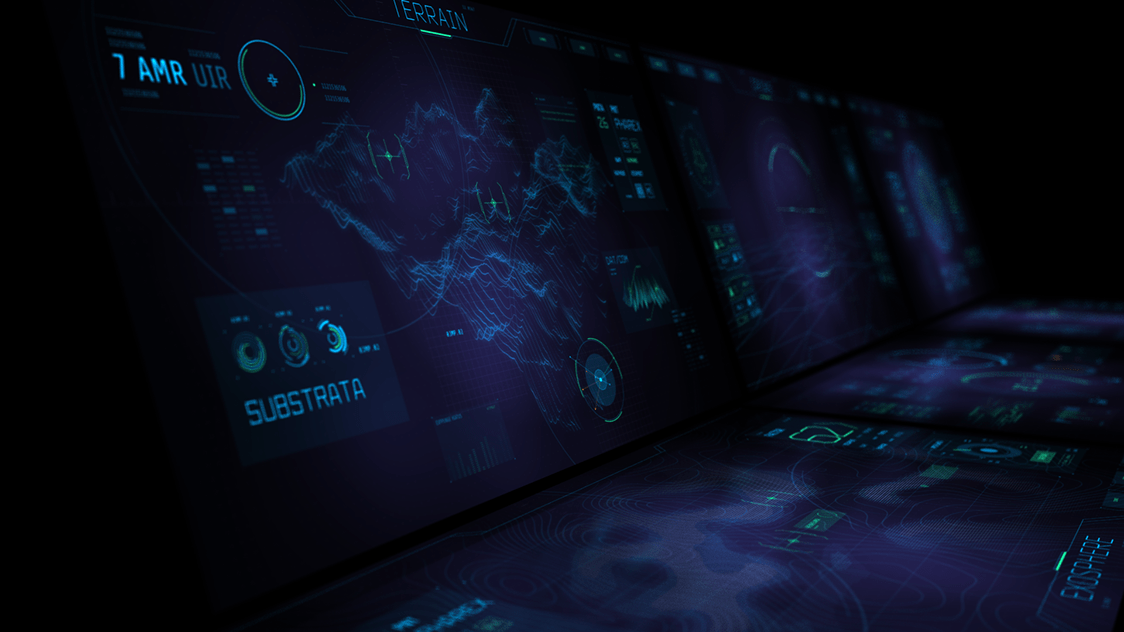
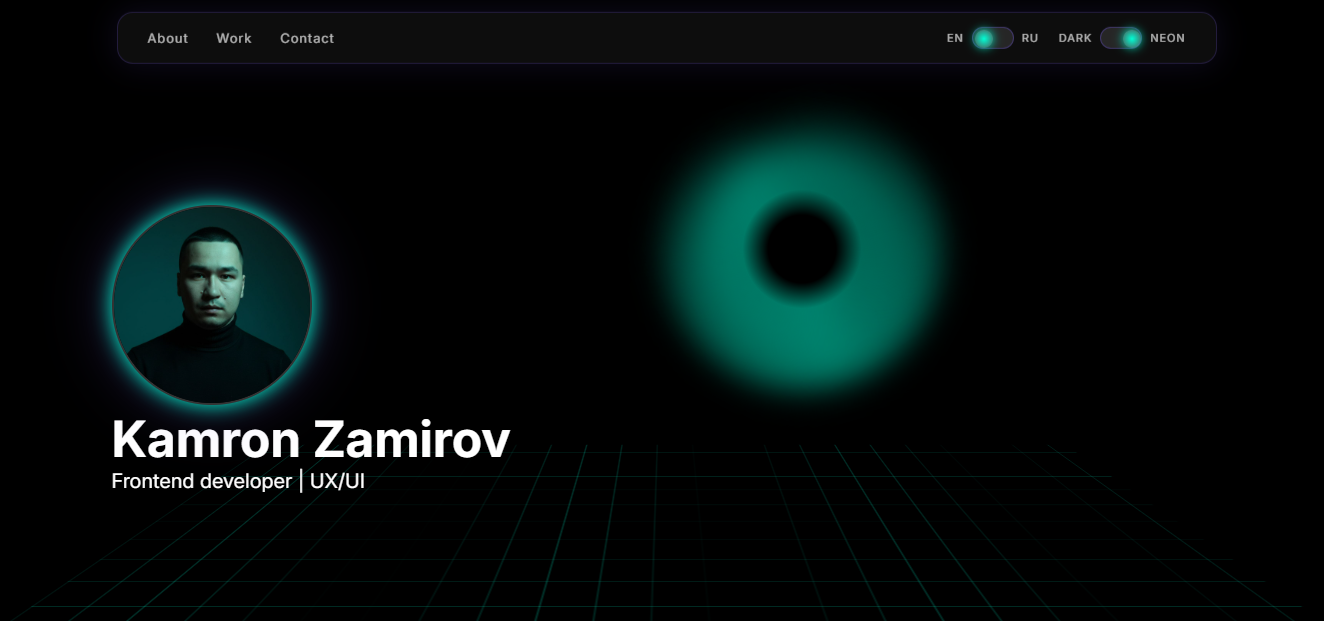
initial

diff --git a/src/components/About/About.scss b/src/components/About/About.scss
@@ -1,122 +1,121 @@
 .about {
-  padding-top: 120px;
-  position: relative;
-
-  opacity: 0;
-  transform: translateY(60px);
-  transition: opacity 0.8s ease, transform 0.8s ease;
-
-  &.visible {
-    opacity: 1;
-    transform: translateY(0);
-  }
-
-  &__container {
+    padding-top: 120px;
     position: relative;
-  }
-
-  /* HEADER */
-  &__header {
-    margin-bottom: 40px;
-
-    h2 {
-      font-size: 36px;
-      margin-top: 10px;
-      color: #fff;
-      letter-spacing: 0.5px;
-    }
-  }
-
-  &__label {
-    font-size: 10px;
-    letter-spacing: 3px;
-    opacity: 0.5;
-    color: var(--accent);
-  }
-
-  /* GRID */
-  &__grid {
-    display: grid;
-    grid-template-columns: 1fr 1fr;
-    gap: 50px;
-    align-items: start;
-  }
-
-  /* LEFT SIDE TEXT */
-  &__info {
-    p {
-      font-size: 18px;
-      line-height: 1.7;
-      color: rgba(255, 255, 255, 0.8);
-    }
-  }
-
-  /* RIGHT STATS */
-  &__stats {
-    display: flex;
-    flex-direction: column;
-    gap: 20px;
-  }
-
-  /* CARD BASE */
-  .stat {
-    padding: 20px;
-    border-radius: 14px;
-
-    border: 1px solid rgba(124, 92, 255, 0.25);
-    background: rgba(255, 255, 255, 0.02);
-    backdrop-filter: blur(12px);
-
-    transition: 0.4s ease;
 
     opacity: 0;
-    transform: translateY(20px);
-  }
+    transform: translateY(60px);
+    transition: opacity 0.8s ease, transform 0.8s ease;
 
-  /* STAGGER WHEN VISIBLE */
-  &.visible .stat {
-    opacity: 1;
-    transform: translateY(0);
-  }
+    &.visible {
+      opacity: 1;
+      transform: translateY(0);
+    }
 
-  &.visible .stat:nth-child(1) {
-    transition-delay: 0.15s;
-  }
+    &__container {
+      position: relative;
+    }
 
-  &.visible .stat:nth-child(2) {
-    transition-delay: 0.3s;
-  }
+    &__header {
+      margin-bottom: 40px;
 
-  &.visible .stat:nth-child(3) {
-    transition-delay: 0.45s;
-  }
+      h2 {
+        font-size: 36px;
+        margin-top: 10px;
+        color: #fff;
+        letter-spacing: 0.5px;
+      }
+    }
 
-  /* INNER CONTENT */
-  .stat {
-    span {
-      font-size: 22px;
+    &__label {
+      font-size: 10px;
+      letter-spacing: 3px;
+      opacity: 0.5;
       color: var(--accent);
-      text-shadow: 0 0 10px var(--glow);
     }
 
-    p {
-      font-size: 12px;
-      opacity: 0.6;
-      letter-spacing: 1px;
-    }
 
-    &:hover {
-      border-color: var(--accent);
-      box-shadow: 0 0 25px var(--glow);
-      transform: translateY(-5px);
-    }
-  }
-
-  /* RESPONSIVE */
-  @media (max-width: 900px) {
     &__grid {
-      grid-template-columns: 1fr;
-      gap: 30px;
+      display: grid;
+      grid-template-columns: 1fr 1fr;
+      gap: 50px;
+      align-items: start;
     }
-  }
+
+
+    &__info {
+      p {
+        font-size: 18px;
+        line-height: 1.7;
+        color: rgba(255, 255, 255, 0.8);
+      }
+    }
+
+
+    &__stats {
+      display: flex;
+      flex-direction: column;
+      gap: 20px;
+    }
+
+
+    .stat {
+      padding: 20px;
+      border-radius: 14px;
+
+      border: 1px solid rgba(124, 92, 255, 0.25);
+      background: rgba(255, 255, 255, 0.02);
+      backdrop-filter: blur(12px);
+
+      transition: 0.4s ease;
+
+      opacity: 0;
+      transform: translateY(20px);
+    }
+
+
+    &.visible .stat {
+      opacity: 1;
+      transform: translateY(0);
+    }
+
+    &.visible .stat:nth-child(1) {
+      transition-delay: 0.15s;
+    }
+
+    &.visible .stat:nth-child(2) {
+      transition-delay: 0.3s;
+    }
+
+    &.visible .stat:nth-child(3) {
+      transition-delay: 0.45s;
+    }
+
+
+    .stat {
+      span {
+        font-size: 22px;
+        color: var(--accent);
+        text-shadow: 0 0 10px var(--glow);
+      }
+
+      p {
+        font-size: 12px;
+        opacity: 0.6;
+        letter-spacing: 1px;
+      }
+
+      &:hover {
+        border-color: var(--accent);
+        box-shadow: 0 0 25px var(--glow);
+        transform: translateY(-5px);
+      }
+    }
+
+
+    @media (max-width: 900px) {
+      &__grid {
+        grid-template-columns: 1fr;
+        gap: 30px;
+      }
+    }
 }

diff --git a/src/components/About/About.tsx b/src/components/About/About.tsx
@@ -8,48 +8,48 @@ const About: FC = () => {
   const { t } = useTranslation()
 
   return (
-    <section
-      ref={ref}
-      id="about"
-      className={`about ${visible ? "visible" : ""}`}
-    >
-      <div className="about__container container">
+      <section
+        ref={ref}
+        id="about"
+        className={`about ${visible ? "visible" : ""}`}
+      >
+        <div className="about__container container">
 
-        <div className="about__header">
-          <span className="about__label">{t('about.profile')}</span>
-          <h2>{t("about.title")}</h2>
-        </div>
-
-        <div className="about__grid">
-
-          <div className="about__info">
-            <p>{t("about.description")}</p>
+          <div className="about__header">
+            <span className="about__label">{t('about.profile')}</span>
+            <h2>{t("about.title")}</h2>
           </div>
 
-          <div className="about__stats">
+          <div className="about__grid">
 
-            <div className="stat">
-              <span>2+</span>
-              <p>{t("about.exp")}</p>
+            <div className="about__info">
+              <p>{t("about.description")}</p>
             </div>
 
-            <div className="stat">
-              <span>React / TS</span>
-              <p>{t('about.stack')}</p>
-            </div>
+            <div className="about__stats">
 
-            <div className="stat">
-              <span>UI / UX</span>
-              <p>{t('about.focus')}</p>
+              <div className="stat">
+                <span>2+</span>
+                <p>{t("about.exp")}</p>
+              </div>
+
+              <div className="stat">
+                <span>React / TS</span>
+                <p>{t('about.stack')}</p>
+              </div>
+
+              <div className="stat">
+                <span>UI / UX</span>
+                <p>{t('about.focus')}</p>
+              </div>
+
             </div>
 
           </div>
 
         </div>
-
-      </div>
-    </section>
-  )
+      </section>
+    )
 
 }
 
